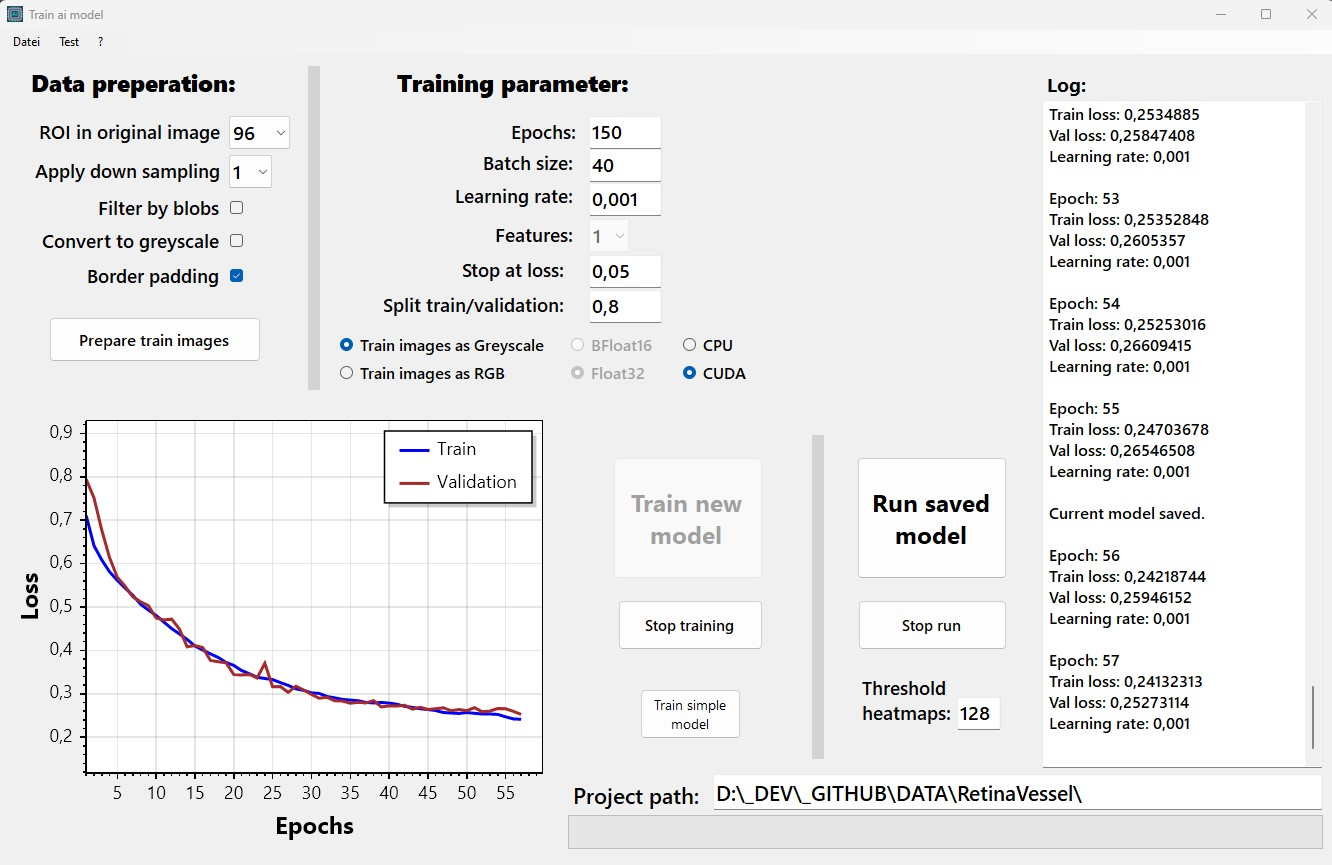
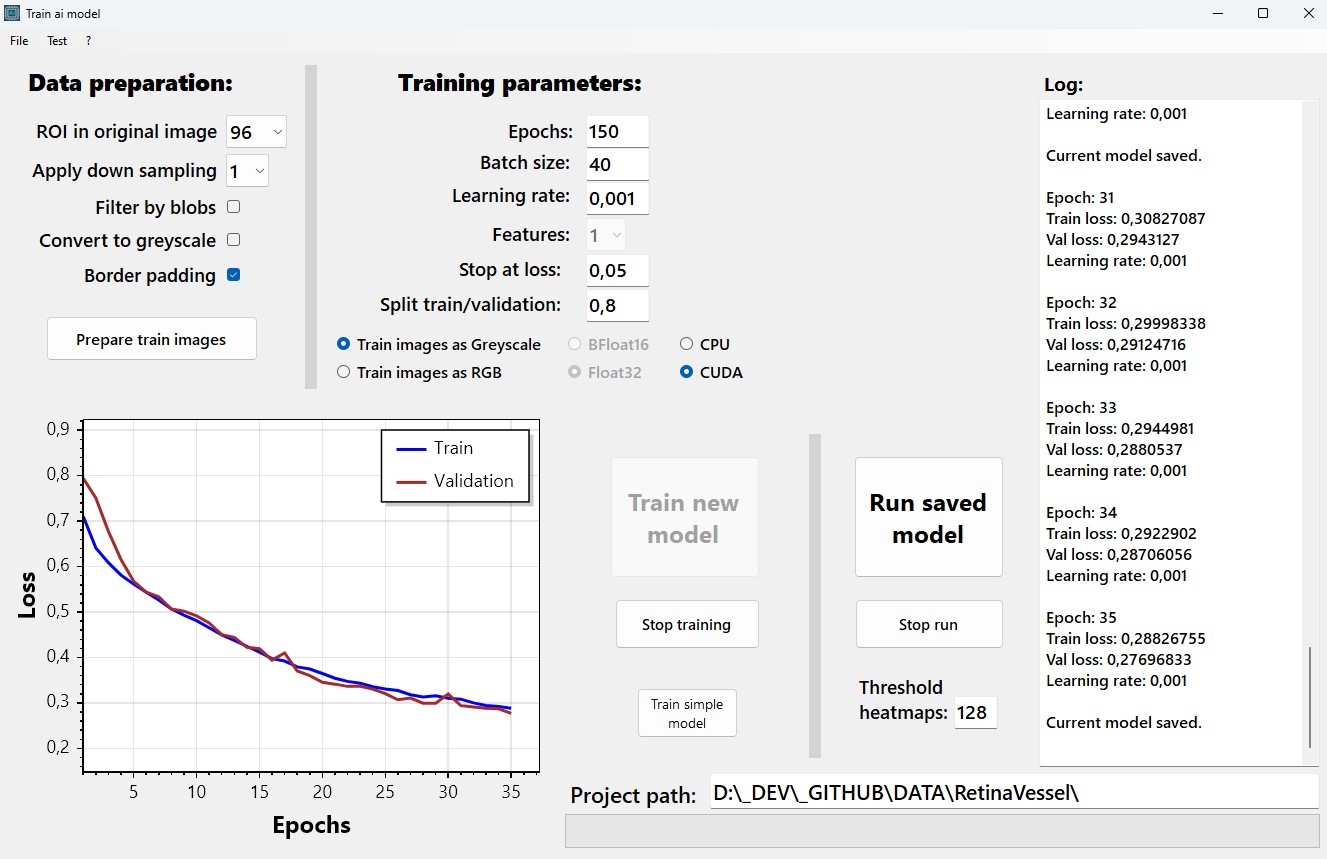
typos

diff --git a/TrainAiModel/MainForm.Designer.cs b/TrainAiModel/MainForm.Designer.cs
@@ -568,11 +568,11 @@
 			ckbWithBoarderPadding.AutoSize = true;
 			ckbWithBoarderPadding.CheckAlign = ContentAlignment.MiddleRight;
 			ckbWithBoarderPadding.Font = new Font("Segoe UI Semibold", 14.25F, FontStyle.Bold);
-			ckbWithBoarderPadding.Location = new Point(26, 229);
+			ckbWithBoarderPadding.Location = new Point(82, 229);
 			ckbWithBoarderPadding.Name = "ckbWithBoarderPadding";
-			ckbWithBoarderPadding.Size = new Size(219, 29);
+			ckbWithBoarderPadding.Size = new Size(163, 29);
 			ckbWithBoarderPadding.TabIndex = 56;
-			ckbWithBoarderPadding.Text = "With boarder padding";
+			ckbWithBoarderPadding.Text = "Border padding";
 			ckbWithBoarderPadding.UseVisualStyleBackColor = true;
 			// 
 			// txbSplitTrainValidationSet
@@ -637,13 +637,13 @@
 			// 
 			toolStripMenuItem1.DropDownItems.AddRange(new ToolStripItem[] { exitToolStripMenuItem });
 			toolStripMenuItem1.Name = "toolStripMenuItem1";
-			toolStripMenuItem1.Size = new Size(46, 20);
-			toolStripMenuItem1.Text = "Datei";
+			toolStripMenuItem1.Size = new Size(37, 20);
+			toolStripMenuItem1.Text = "File";
 			// 
 			// exitToolStripMenuItem
 			// 
 			exitToolStripMenuItem.Name = "exitToolStripMenuItem";
-			exitToolStripMenuItem.Size = new Size(93, 22);
+			exitToolStripMenuItem.Size = new Size(180, 22);
 			exitToolStripMenuItem.Text = "Exit";
 			exitToolStripMenuItem.Click += exitToolStripMenuItem_Click;
 			// 
@@ -793,7 +793,7 @@
 			label23.Name = "label23";
 			label23.Size = new Size(219, 32);
 			label23.TabIndex = 71;
-			label23.Text = "Data preperation:";
+			label23.Text = "Data preparation:";
 			// 
 			// panel1
 			// 

diff --git a/TrainAiModel/MainForm.cs b/TrainAiModel/MainForm.cs
@@ -29,37 +29,7 @@ namespace TrainAiModel
 {
 	public partial class MainForm : Form
 	{
-		// TODO
-
-		// GUI:
-		// Set specific train/val images
-		// OpenCV.SelectROI -> interesting for choosing ROI by user
-		// Blob per image gui ...
-
-		// Model calculations:
-		// New loss functions: pixel accuracy, mean pixel accuracy and IoU, mean-IoU
-		// maybe interesting: https://github.com/jocpae/clDice
-		// Std/mean calculation per image to per dataset:
-		// https://github.com/aladdinpersson/Machine-Learning-Collection/blob/master/ML/Pytorch/Basics/pytorch_std_mean.py
-
-		// Refactor:
-		// Switch Db.cs to DataBase.cs: Image_DataBase image_db = new Image_DataBase(DataPath);
-		// Refactor model to sequential
-
-		// Features:
-		// DataAugmentation
-		// Batch size calculation by estimating memory need:
-		// https://discuss.pytorch.org/t/resnet-50-takes-10-13gb-to-run-with-batch-size-of-96/117402/2
-
-		// Memory/calculations efficiency
-		// BFloat16: https://github.com/dotnet/runtime/issues/96295 end of the year with .NET 9
-		// AMP work in progress: https://github.com/dotnet/TorchSharp/pull/1235
-
-		// New models for:
-		// OCR
-		// Search points
-
-
+		
 		private DataLogger? plotTrainLoss;
 		private DataLogger? plotValLoss;
 		private CancellationTokenSource? tokenSource;
